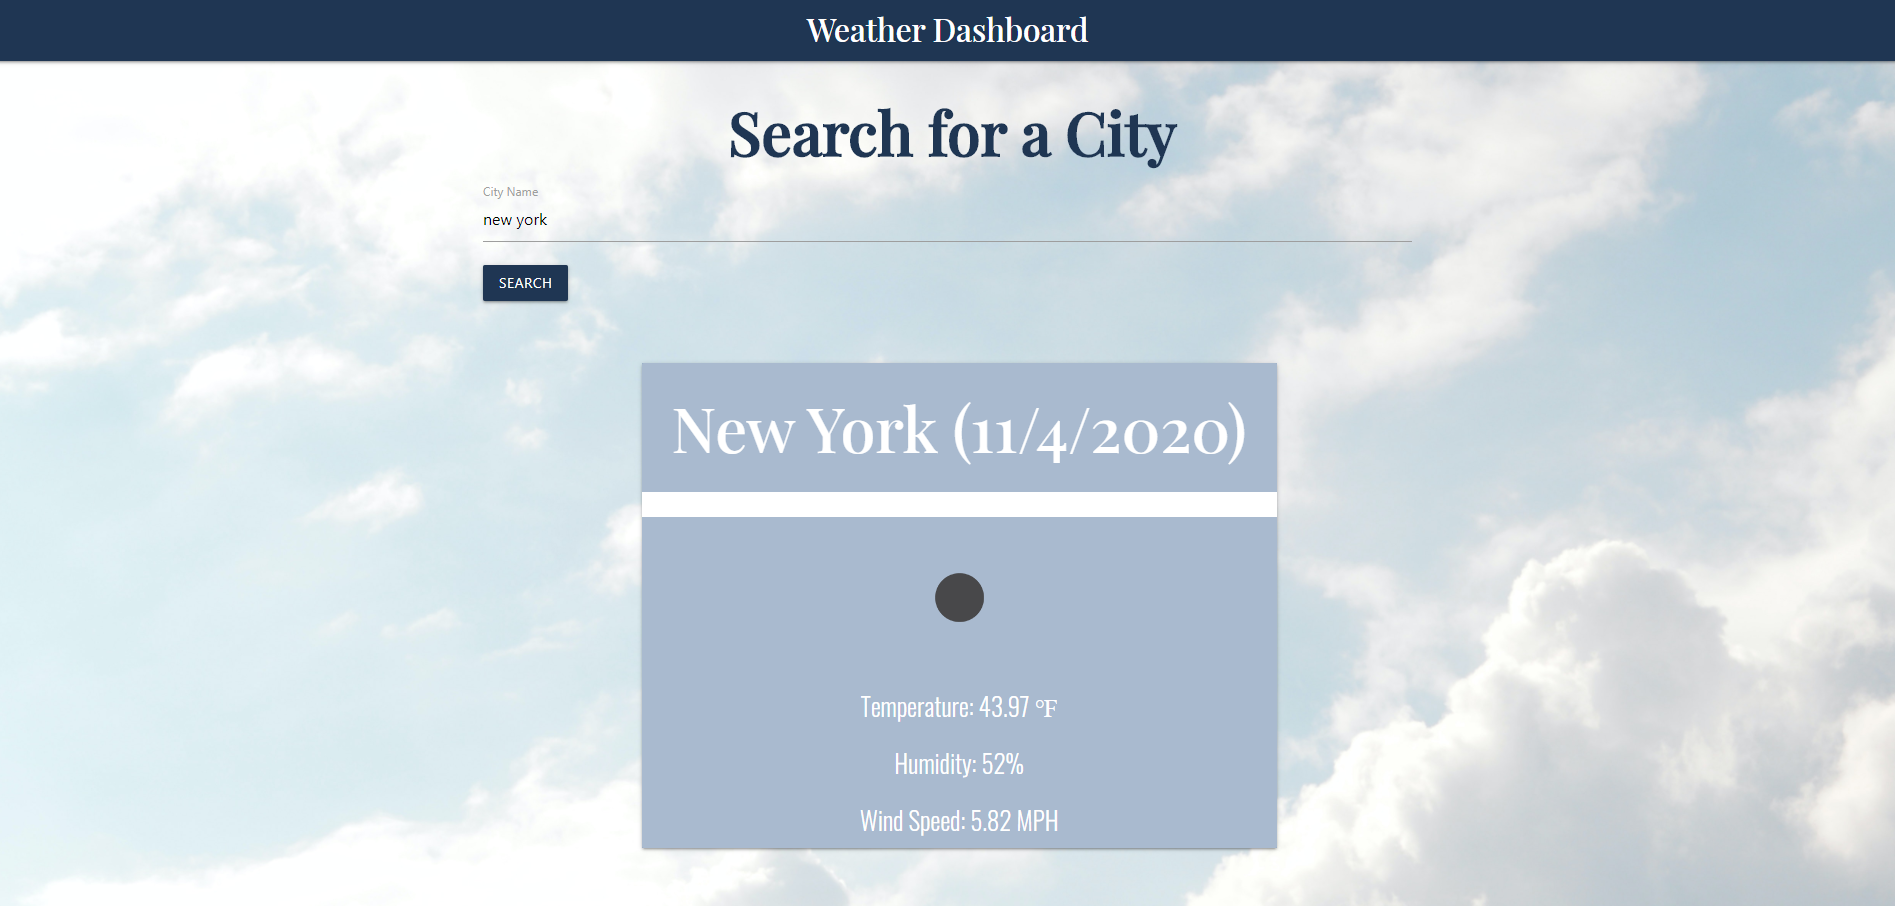
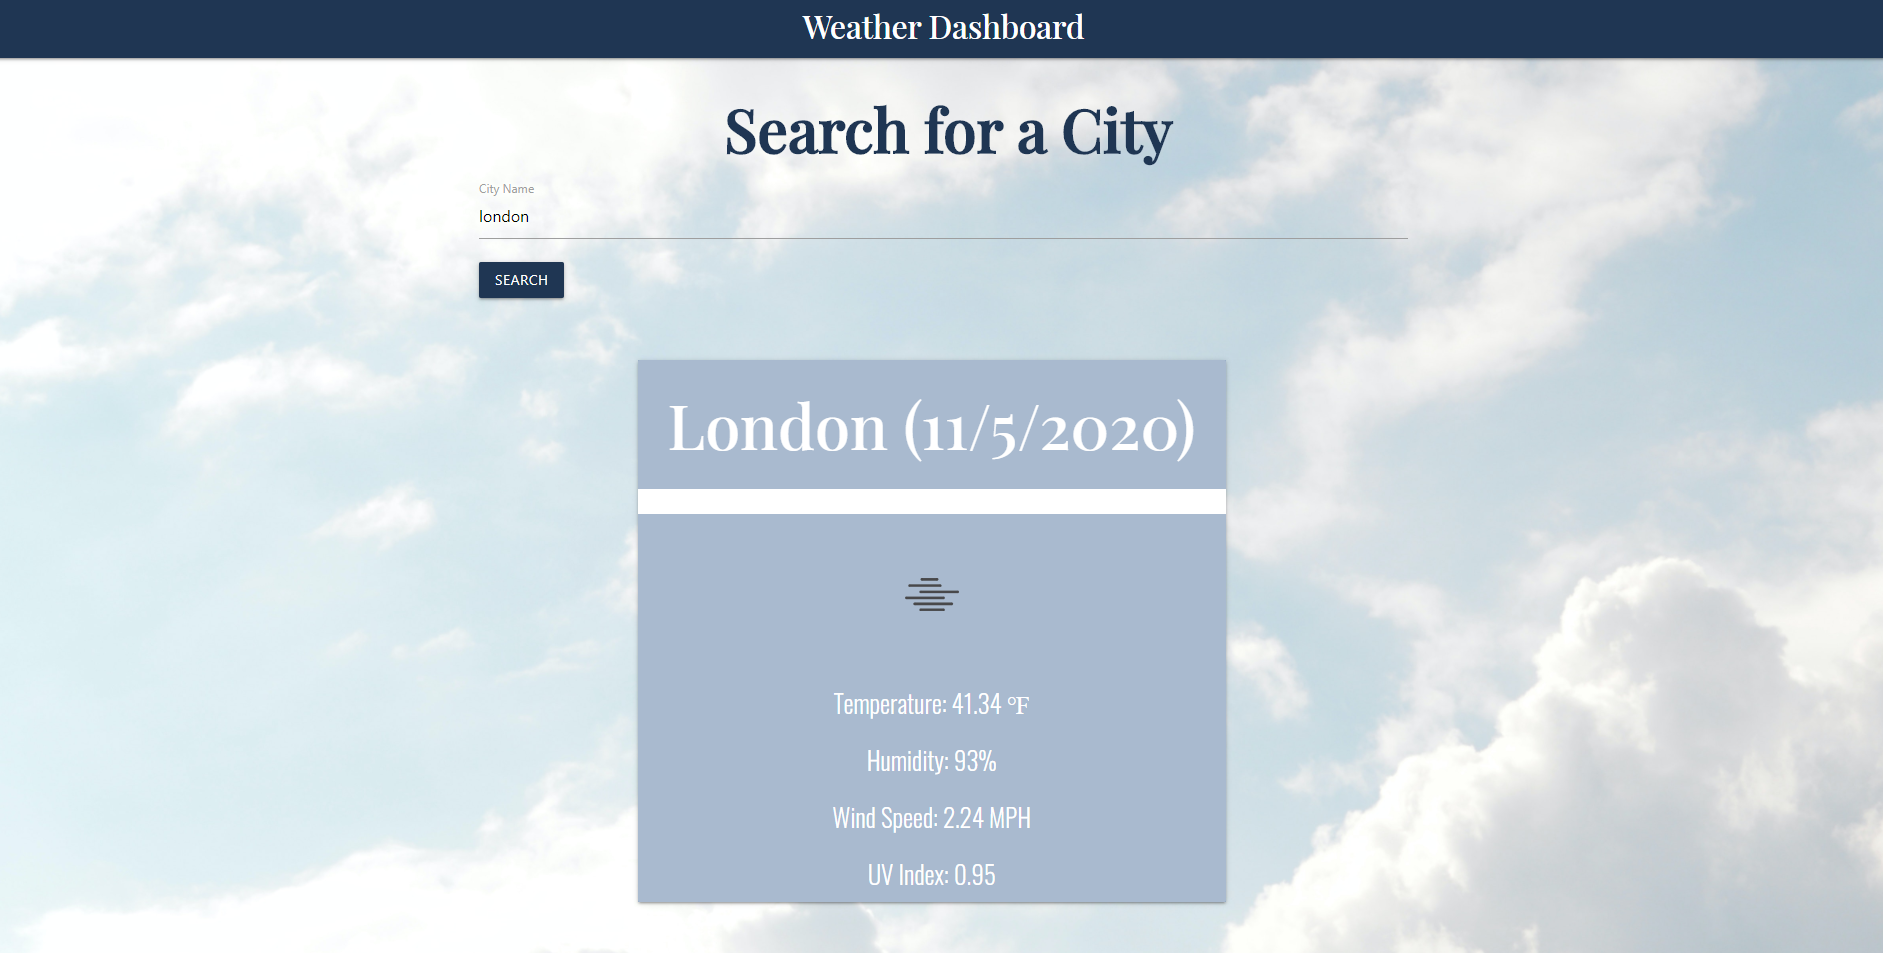
updating readme with current screenshots

diff --git a/README.md b/README.md
@@ -24,7 +24,7 @@ SO THAT I can plan a trip accordingly
 Traveling can be exhausting and having a weather app handy will lessen the worries of a traveler. Being able to search for any city and find the current weather, along with the next 5 days' forecast, allows travelers to plan their trip accordingly.
 
 ## How Weather App Works
-Weather App uses an OpenWeatherMap API key that allows for the application to render the current weather and a 5 day forecast. The cards are created dynamically and appear on search. The 5 day weather forecast function has a unique for loop that loops through the 5 day forecast object provided by the API key and create a card for each day. Adding a class to the dynamically created cards allows for the styling to appear once the search is completed. Each weather card displays the searched city's name, the date, temperature, humidity, and wind-speed.
+Weather App uses an OpenWeatherMap API key that allows for the application to render the current weather and a 5 day forecast. The cards are created dynamically and appear on search. The 5 day weather forecast function has a unique for loop that loops through the 5 day forecast object provided by the API key and create a card for each day. Adding a class to the dynamically created cards allows for the styling to appear once the search is completed. Each weather card displays the searched city's name, the date, temperature, humidity, wind-speed, and UV index.
 
 ## Screenshots
 ![current-day-weather](/assets/images/current-weather.png)
